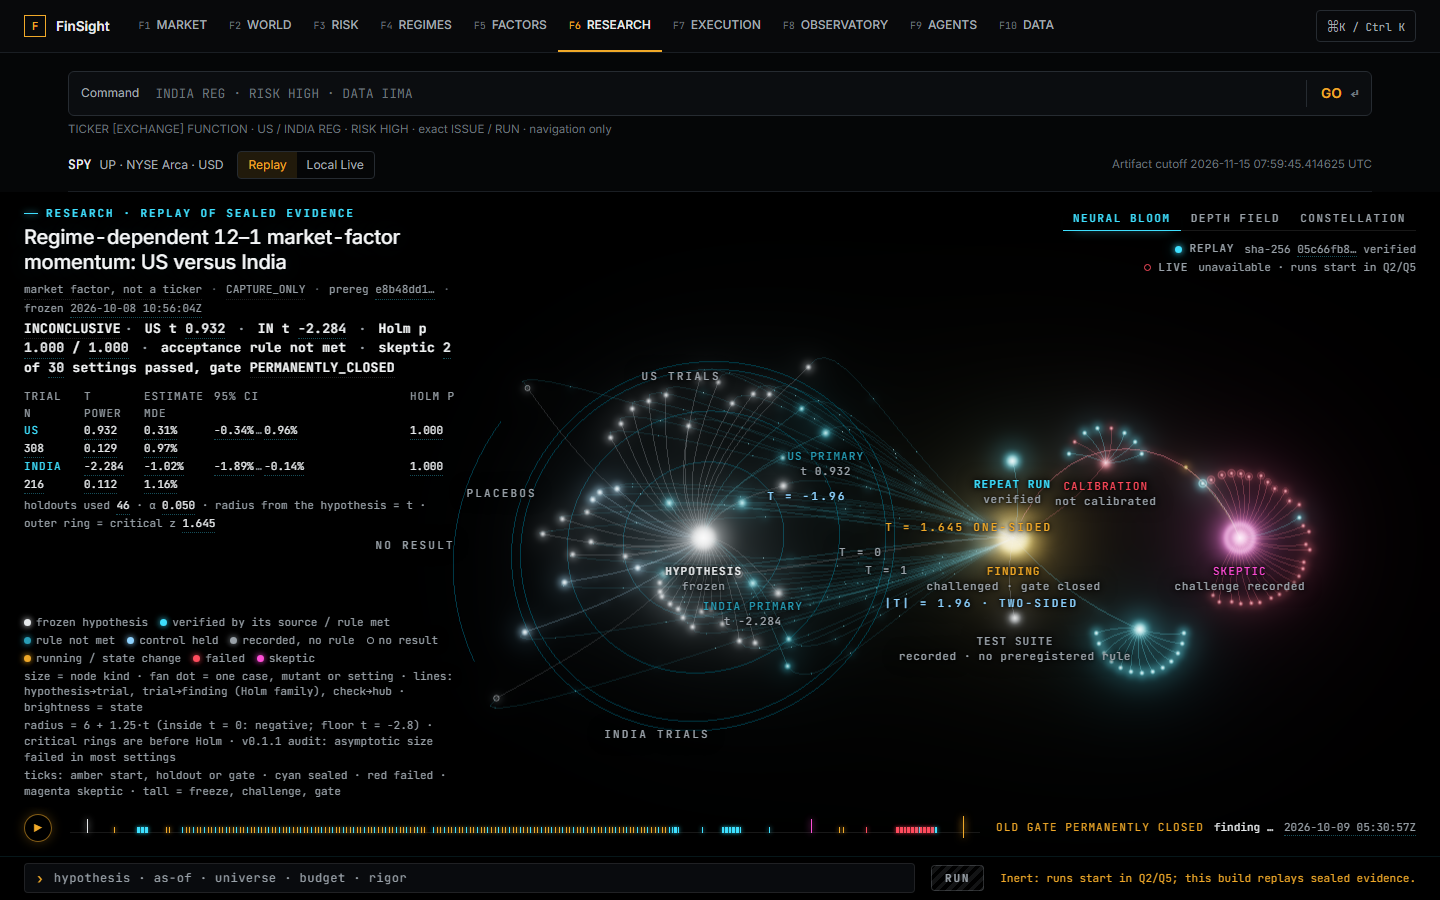
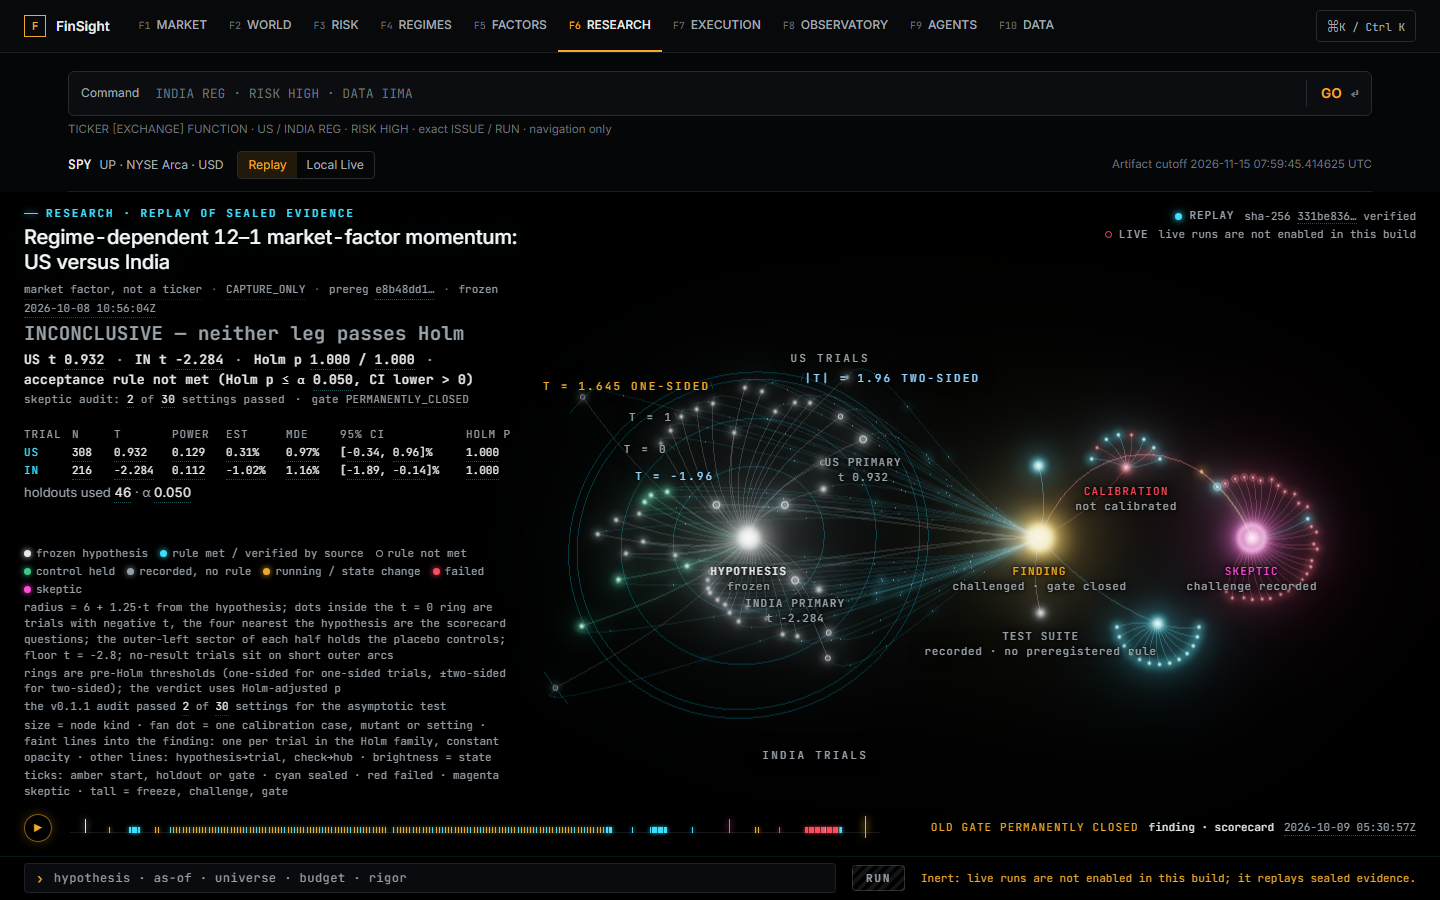
fix(research): ring labels clear of the rail and each other; regenerate screenshots
Labels treat the rail, legend, status and HUD as obstacles and stay on
screen; ring labels sit in the upper half on their own strokes; the
placebo sector is described in the legend. Screenshots and the note are
updated for the single Bloom look.

diff --git a/frontend-v2/src/research/ResearchPage.tsx b/frontend-v2/src/research/ResearchPage.tsx
@@ -110,7 +110,11 @@ function useStageSize() {
 /** Anchor labels in priority order: when two collide, the later one is hidden. */
 const PIN_ORDER = ["H", "F", "SK", "R:US:PRIMARY", "R:INDIA:PRIMARY", "CAL", "MUT", "TESTS", "REP"];
 function declutter(els: (HTMLElement | null | undefined)[]) {
-  const taken: DOMRect[] = [];
+  // HUD text blocks are obstacles too, and labels must stay fully on screen.
+  const taken: DOMRect[] = [
+    ...document.querySelectorAll(".rs-mast, .rs-legend, .rs-status, .rs-hud"),
+  ].map((e) => e.getBoundingClientRect());
+  const vw = document.documentElement.clientWidth;
   for (const el of els) {
     if (!el) continue;
     el.style.visibility = "visible";
@@ -124,7 +128,7 @@ function declutter(els: (HTMLElement | null | undefined)[]) {
         r.top < t.bottom + 2 &&
         r.bottom > t.top - 2,
     );
-    if (hit) el.style.visibility = "hidden";
+    if (hit || r.left < 4 || r.right > vw - 4) el.style.visibility = "hidden";
     else taken.push(r);
   }
 }
@@ -687,7 +691,7 @@ function Hero({ graph, tone }: { graph: ResearchGraph; tone: ColorName }) {
         {g(
           <>
             acceptance rule {rule} (Holm p ≤ α <Num n={graph.study.alpha} label="α" />, CI lower{" "}
-            {">"} 0)
+            <span data-copy>{">"} 0)</span>
           </>,
         )}
       </p>
@@ -734,15 +738,16 @@ function Legend({ graph }: { graph: ResearchGraph }) {
       </div>
       <div data-copy>
         radius = 6 + 1.25·t from the hypothesis; dots inside the t = 0 ring are trials with negative
-        t, the four nearest the hypothesis are the scorecard questions; floor t = −2.8; no-result
-        trials sit on short outer arcs
+        t, the four nearest the hypothesis are the scorecard questions; the outer-left sector of
+        each half holds the placebo controls; floor t = −2.8; no-result trials sit on short outer
+        arcs
       </div>
       <div data-copy>
         rings are pre-Holm thresholds (one-sided for one-sided trials, ±two-sided for two-sided);
         the verdict uses Holm-adjusted p
       </div>
       <div>
-        the v0.1.1 audit passed{" "}
+        <span data-copy>the v0.1.1 audit passed</span>{" "}
         <Num n={graph.study.settings_passed} label="Skeptic settings passed" /> of{" "}
         <Num n={graph.study.settings_total} label="Skeptic settings total" /> settings for the
         asymptotic test

diff --git a/frontend-v2/src/research/layouts.ts b/frontend-v2/src/research/layouts.ts
@@ -100,8 +100,8 @@ export const radiusOfT = (t: number) => 6 + 1.25 * Math.max(T_FLOOR, t);
 /** Trials with no result sit on their own arc outside the t scale. */
 export const NO_RESULT_R = 11;
 
-/** Ring labels in the upper-left quadrant, away from the hypothesis→finding bundle. */
-export const RING_ANGLES = { neg: 140, zero: 131, one: 122, crit: 112, two: 97 } as const;
+/** Ring labels in the upper half, away from the hypothesis→finding bundle, each on its stroke. */
+export const RING_ANGLES = { neg: 118, zero: 131, one: 122, crit: 106, two: 75 } as const;
 function ringLabels(H: Vec3, zc: number | null, z2: number | null): Layout["labels"] {
   const on = (r: number, deg_: number): Vec3 => [
     H[0] + (r + 0.35) * Math.cos(deg_ * deg),
@@ -138,7 +138,7 @@ function ringLabels(H: Vec3, zc: number | null, z2: number | null): Layout["labe
         text: `|t| = ${z2.toFixed(2)} two-sided`,
         at: on(radiusOfT(z2), RING_ANGLES.two),
         tone: "cyanSoft",
-        align: "right",
+        align: "left",
         src: "v0.1/preregistration.json",
       },
       {
@@ -237,12 +237,6 @@ function bloom(graph: ResearchGraph, g: Groups): Omit<Layout, "look"> {
   const labels: Layout["labels"] = [
     { text: "US TRIALS", at: [H[0] + 3.5, H[1] + 9.6, 0], tone: "muted", align: "center" },
     { text: "INDIA TRIALS", at: [H[0] + 3.5, H[1] - 9.8, 0], tone: "muted", align: "center" },
-    {
-      text: "PLACEBOS",
-      at: [H[0] - radiusOfT(0) - 1.6, H[1] + 2.4, 0],
-      tone: "muted",
-      align: "right",
-    },
     ...ringLabels(H, zc, z2),
   ];
   const guides = [

diff --git a/frontend-v2/src/research/research.css b/frontend-v2/src/research/research.css
@@ -941,6 +941,9 @@
   .rs-hero-2 {
     font-size: 12px;
   }
+  .rs-hero .rs-nw {
+    white-space: normal;
+  }
   .rs-readout-wrap {
     -webkit-mask-image: linear-gradient(to right, #000 85%, transparent);
     mask-image: linear-gradient(to right, #000 85%, transparent);

diff --git a/docs/q3-visual-research.md b/docs/q3-visual-research.md
@@ -41,8 +41,11 @@ replaying and settles when it is sealed. With `prefers-reduced-motion` the graph
   trial's distance from the hypothesis is its t (estimate ÷ SE, derived from the sealed CI with the formula
   shown); rings are labelled on their strokes: t = 0, t = 1, the one-sided critical value and ±1.96 for
   two-sided trials (both before Holm); trials without a result sit on a separate arc. Cyan settled, amber state changes,
-  magenta the skeptic, red failure only. A left rail holds the hero verdict line, the
-  readout of the two primary trials and a legend naming every visual channel.
+  magenta the skeptic, red failure only. A left rail holds the hero verdict (sealed
+  verdict, derived Holm phrase, t and Holm p per leg, the acceptance rule with its inputs, the skeptic
+  audit), a one-row-per-trial table, and a legend naming every visual channel. Rule met is filled cyan,
+  rule not met a hollow grey ring, control held green, recorded grey. A single regime contrast never
+  verifies alone: its state follows the whole preregistered regime rule (k of 4 contrasts).
 - **Replay.** A timeline scrubber replays the recorded events in order; scorecard values stay pending until
   the replay reaches the event that sealed them. This is the only motion on the page.
 - **HUD.** Clicking or pressing Enter on a node opens a translucent overlay with evidence, cost, model and
